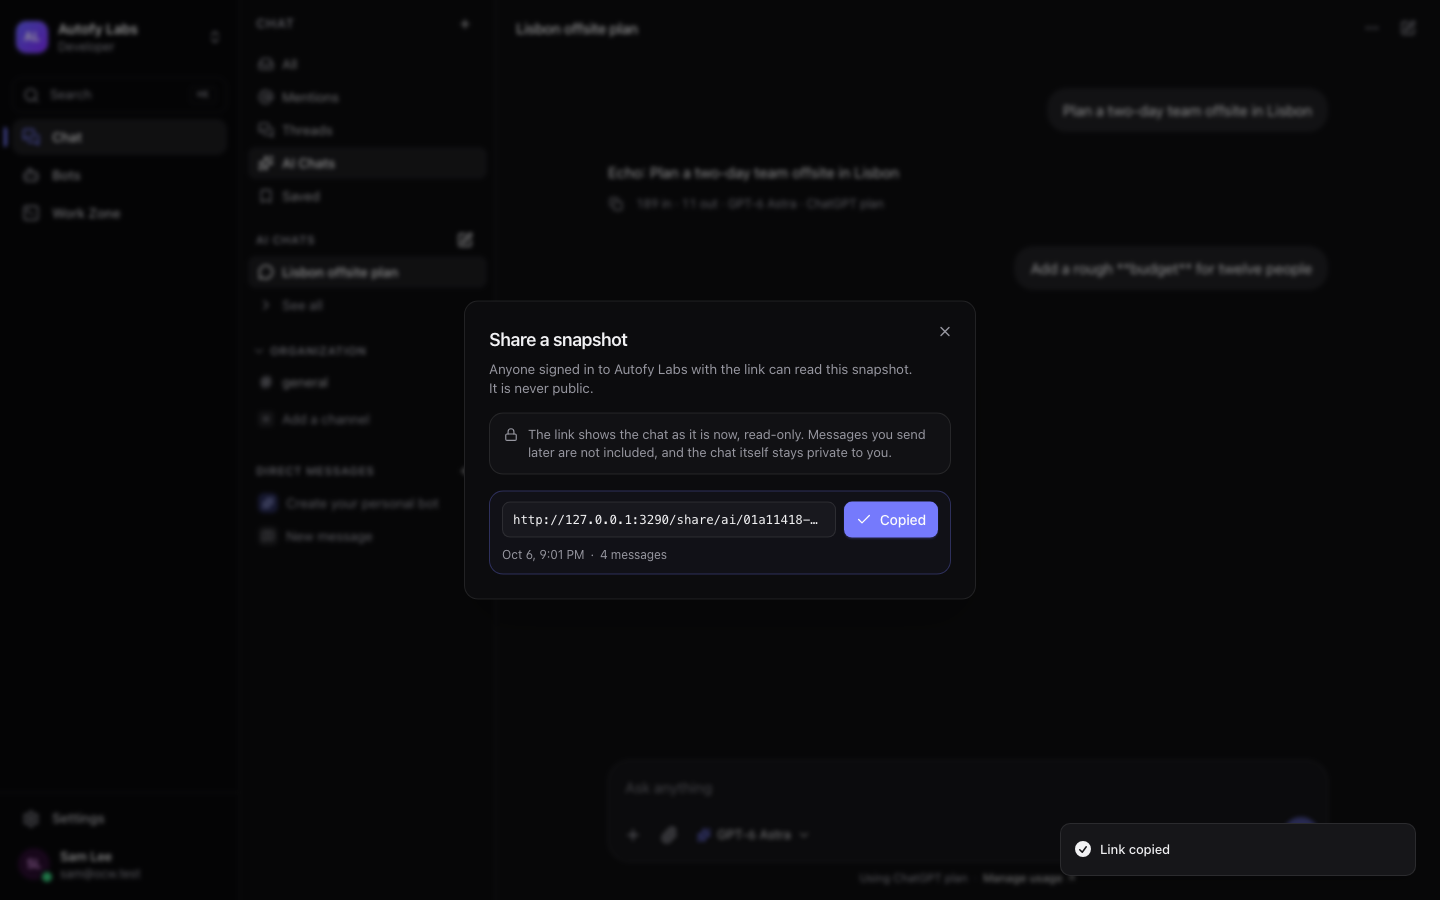
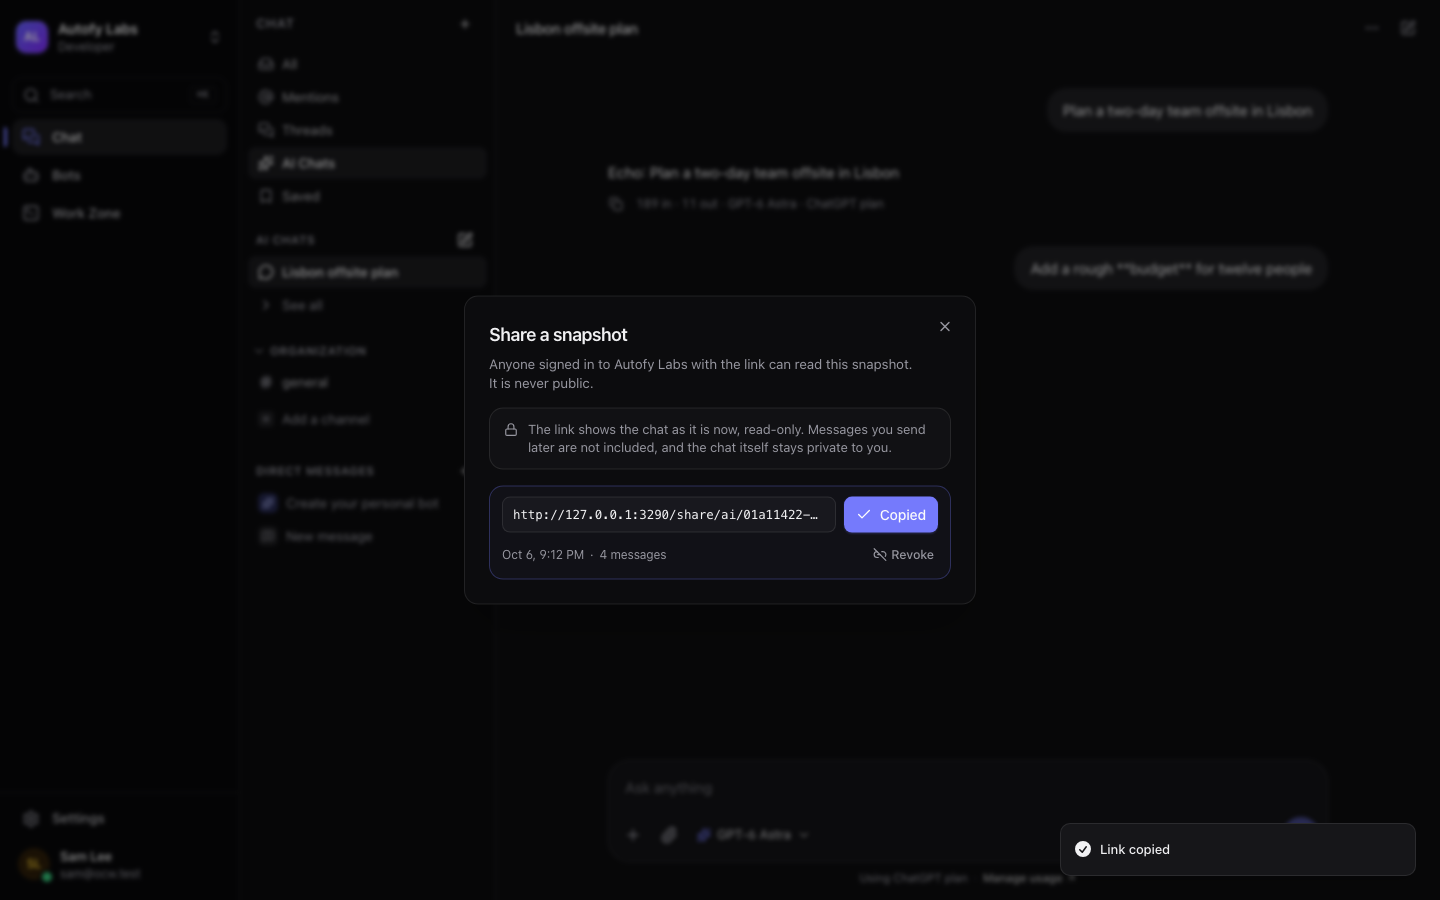
feat: revoke AI chat share links; revoked reads as not available at once (05-13)
- api: DELETE /ai-shares/:shareId, creator only (hidden = 404), idempotent, audited ai_chat.share_revoked once
- web: Revoke with an in-place confirm in the share dialog; revoked links stay listed, struck through

Changed region(s): [[0.3438, 0.4667, 0.6562, 0.6533], [0.3438, 0.3422, 0.625, 0.4356], [0.0, 0.9333, 0.0312, 0.9644]]

diff --git a/apps/web/components/ai-chat/share-dialog.tsx b/apps/web/components/ai-chat/share-dialog.tsx
@@ -2,14 +2,14 @@
 
 import type { AiChatShare } from "@ocw/contracts";
 import { useQueryClient } from "@tanstack/react-query";
-import { Check, Copy, Link2, Lock } from "lucide-react";
+import { Check, Copy, Link2, Link2Off, Lock } from "lucide-react";
 import { useState } from "react";
 import { toast } from "sonner";
 import { Button } from "@/components/ui/button";
 import { Dialog, DialogContent, DialogDescription, DialogHeader, DialogTitle } from "@/components/ui/dialog";
 import { Spinner } from "@/components/ui/spinner";
 import { useCopy } from "@/hooks/use-copy";
-import { createAiShare, shareUrl, useAiChatShares } from "@/lib/ai-share-queries";
+import { createAiShare, revokeAiShare, shareUrl, useAiChatShares } from "@/lib/ai-share-queries";
 import { errorMessage } from "@/lib/api";
 import { useMe } from "@/lib/queries";
 import { cn } from "@/lib/utils";
@@ -47,6 +47,8 @@ export function ShareDialog({
     }
   }
 
+  // The link just made, kept current from the list (a revoke updates it there).
+  const current = fresh ? (shares.data?.shares.find((s) => s.id === fresh.id) ?? fresh) : null;
   const others = (shares.data?.shares ?? []).filter((s) => s.id !== fresh?.id);
 
   return (
@@ -73,8 +75,8 @@ export function ShareDialog({
           </p>
         </div>
 
-        {fresh ? (
-          <LinkRow share={fresh} highlight />
+        {current ? (
+          <LinkRow chatId={chatId} share={current} highlight />
         ) : (
           <Button
             data-testid="ai-share-create"
@@ -89,11 +91,13 @@ export function ShareDialog({
 
         {others.length > 0 ? (
           <section className="grid gap-1.5" data-testid="ai-share-list">
-            <h3 className="font-medium text-[12.5px] text-muted-foreground">Earlier links</h3>
+            <h3 className="font-medium text-[12.5px] text-muted-foreground">
+              {current ? "Earlier links" : "Links to this chat"}
+            </h3>
             <ul className="grid gap-1.5">
               {others.map((s) => (
                 <li key={s.id}>
-                  <LinkRow share={s} />
+                  <LinkRow chatId={chatId} share={s} />
                 </li>
               ))}
             </ul>
@@ -107,11 +111,40 @@ export function ShareDialog({
 const when = (iso: string) =>
   new Date(iso).toLocaleString("en", { month: "short", day: "numeric", hour: "numeric", minute: "2-digit" });
 
-/** One link: its URL (read-only, selectable), when it was taken and how many messages it holds, and Copy. */
-function LinkRow({ share, highlight = false }: { share: AiChatShare; highlight?: boolean }) {
+/**
+ * One link: its URL (read-only, selectable), when it was taken and how many messages it holds, Copy and Revoke.
+ * Revoke asks once, in place; a revoked link stays listed, struck through, with nothing left to copy.
+ */
+function LinkRow({
+  chatId,
+  share,
+  highlight = false,
+}: {
+  chatId: string;
+  share: AiChatShare;
+  highlight?: boolean;
+}) {
+  const qc = useQueryClient();
   const { copy, copied } = useCopy();
+  const [confirming, setConfirming] = useState(false);
+  const [revoking, setRevoking] = useState(false);
   const url = shareUrl(share.path);
   const revoked = share.revokedAt !== null;
+
+  async function revoke() {
+    if (revoking) return;
+    setRevoking(true);
+    try {
+      await revokeAiShare(qc, chatId, share.id);
+      setConfirming(false);
+      toast.success("Link revoked");
+    } catch (err) {
+      toast.error("Couldn't revoke the link", { description: errorMessage(err) });
+    } finally {
+      setRevoking(false);
+    }
+  }
+
   return (
     <div
       data-testid="ai-share-link"
@@ -152,21 +185,60 @@ function LinkRow({ share, highlight = false }: { share: AiChatShare; highlight?:
           </Button>
         )}
       </div>
-      <p className="flex flex-wrap items-center gap-x-1.5 text-[12px] text-muted-foreground">
-        <span>{when(share.createdAt)}</span>
-        <span aria-hidden>·</span>
-        <span>
-          {share.messageCount} {share.messageCount === 1 ? "message" : "messages"}
-        </span>
-        {revoked ? (
-          <>
+      {confirming && !revoked ? (
+        <div
+          data-testid="ai-share-revoke-confirmation"
+          className="flex flex-wrap items-center gap-x-3 gap-y-2 rounded-lg bg-destructive/[0.06] px-2.5 py-2"
+        >
+          <p className="min-w-0 flex-1 text-[12.5px] leading-snug">
+            Revoke this link? Anyone who opens it will see that it isn't available.
+          </p>
+          <div className="flex shrink-0 gap-1.5">
+            <Button variant="ghost" size="sm" onClick={() => setConfirming(false)} disabled={revoking}>
+              Cancel
+            </Button>
+            <Button
+              variant="destructive"
+              size="sm"
+              data-testid="ai-share-revoke-confirm"
+              onClick={() => void revoke()}
+              disabled={revoking}
+            >
+              {revoking ? <Spinner /> : null}
+              Revoke link
+            </Button>
+          </div>
+        </div>
+      ) : (
+        <div className="flex min-h-7 items-center gap-2">
+          <p className="flex min-w-0 flex-1 flex-wrap items-center gap-x-1.5 text-[12px] text-muted-foreground">
+            <span>{when(share.createdAt)}</span>
             <span aria-hidden>·</span>
-            <span data-testid="ai-share-revoked" className="font-medium text-foreground/70">
-              Revoked
+            <span>
+              {share.messageCount} {share.messageCount === 1 ? "message" : "messages"}
             </span>
-          </>
-        ) : null}
-      </p>
+            {revoked ? (
+              <>
+                <span aria-hidden>·</span>
+                <span data-testid="ai-share-revoked" className="font-medium text-foreground/70">
+                  Revoked
+                </span>
+              </>
+            ) : null}
+          </p>
+          {revoked ? null : (
+            <button
+              type="button"
+              data-testid="ai-share-revoke"
+              onClick={() => setConfirming(true)}
+              className="-mr-1 inline-flex h-7 shrink-0 items-center gap-1 rounded-md px-2 font-medium text-[12.5px] text-muted-foreground outline-none transition-colors hover:bg-destructive/10 hover:text-destructive focus-visible:ring-[3px] focus-visible:ring-ring/30"
+            >
+              <Link2Off className="size-3.5" />
+              Revoke
+            </button>
+          )}
+        </div>
+      )}
     </div>
   );
 }

diff --git a/apps/api/src/modules/ai-chat/shares.ts b/apps/api/src/modules/ai-chat/shares.ts
@@ -55,6 +55,8 @@ const StoredMessage = z.object({
 });
 type StoredMessage = z.infer<typeof StoredMessage>;
 
+const ShareParams = z.object({ shareId: z.uuid() });
+
 /** `ai_chat_shares.snapshot`: written once at creation, never updated. */
 const StoredSnapshot = z.object({ v: z.literal(1), messages: z.array(StoredMessage) });
 
@@ -277,12 +279,58 @@ export function registerShareRoutes(app: App, deps: ShareRoutesDeps): void {
     },
   );
 
+  // Revoke (creator only; anyone else, admins included, 404). Takes effect at once: every read checks `revoked_at`.
+  // Idempotent: a second call answers the same share and audits nothing.
+  app.delete(
+    "/ai-shares/:shareId",
+    {
+      config: { authz: "user" },
+      preHandler: core.identity.requireUser,
+      schema: { tags, params: ShareParams, response: { 200: AiChatShare } },
+    },
+    async (req) => {
+      const auth = authOf(req);
+      return core.db.withTenant(tenant(req), async (tx) => {
+        const [row] = await tx
+          .select()
+          .from(aiChatShares)
+          .where(and(eq(aiChatShares.id, req.params.shareId), eq(aiChatShares.createdBy, auth.userId)))
+          .limit(1);
+        if (!row) throw shareHidden();
+        // The creator's own chat (the resolver decides on it, owner only); revoking needs no share permission, so
+        // a member whose `ai_chat.share` was taken away can still withdraw what they shared.
+        await access.readable(req, tx, row.conversationId, {
+          kinds: ["ai_chat"],
+          notFoundMessage: SHARE_NOT_FOUND,
+        });
+        if (row.revokedAt !== null) return shareDto(row);
+        const [revoked] = await tx
+          .update(aiChatShares)
+          .set({ revokedAt: new Date().toISOString() })
+          .where(and(eq(aiChatShares.id, row.id), isNull(aiChatShares.revokedAt)))
+          .returning();
+        // A concurrent revoke won: answer its row, audit once.
+        if (!revoked) {
+          const [current] = await tx.select().from(aiChatShares).where(eq(aiChatShares.id, row.id)).limit(1);
+          return shareDto(current ?? row);
+        }
+        await core.audit.record(tx, {
+          action: "ai_chat.share_revoked",
+          resourceType: "ai_chat",
+          resourceId: row.conversationId,
+          metadata: { conversationId: row.conversationId, shareId: row.id },
+        });
+        return shareDto(revoked);
+      });
+    },
+  );
+
   app.get(
     "/ai-shares/:shareId",
     {
       config: { authz: "user" },
       preHandler: core.identity.requireUser,
-      schema: { tags, params: z.object({ shareId: z.uuid() }), response: { 200: AiShareView } },
+      schema: { tags, params: ShareParams, response: { 200: AiShareView } },
     },
     async (req): Promise<AiShareView> =>
       core.db.withTenant(tenant(req), async (tx) => {

diff --git a/apps/web/lib/ai-share-queries.ts b/apps/web/lib/ai-share-queries.ts
@@ -50,3 +50,13 @@ export function useAiShare(shareId: string) {
   });
   return { ...q, notFound: isApiError(q.error, 404) };
 }
+
+/** Revokes one of the owner's links: it reads as not available at once; the list keeps it, marked revoked. */
+export async function revokeAiShare(qc: QueryClient, chatId: string, shareId: string): Promise<AiChatShare> {
+  const share = await api.del(`/api/v1/ai-shares/${shareId}`, { schema: AiChatShare });
+  qc.setQueryData<AiChatShareList>(shareKeys.list(chatId), (old) => ({
+    shares: (old?.shares ?? [share]).map((s) => (s.id === share.id ? share : s)),
+  }));
+  qc.removeQueries({ queryKey: shareKeys.view(shareId) });
+  return share;
+}
